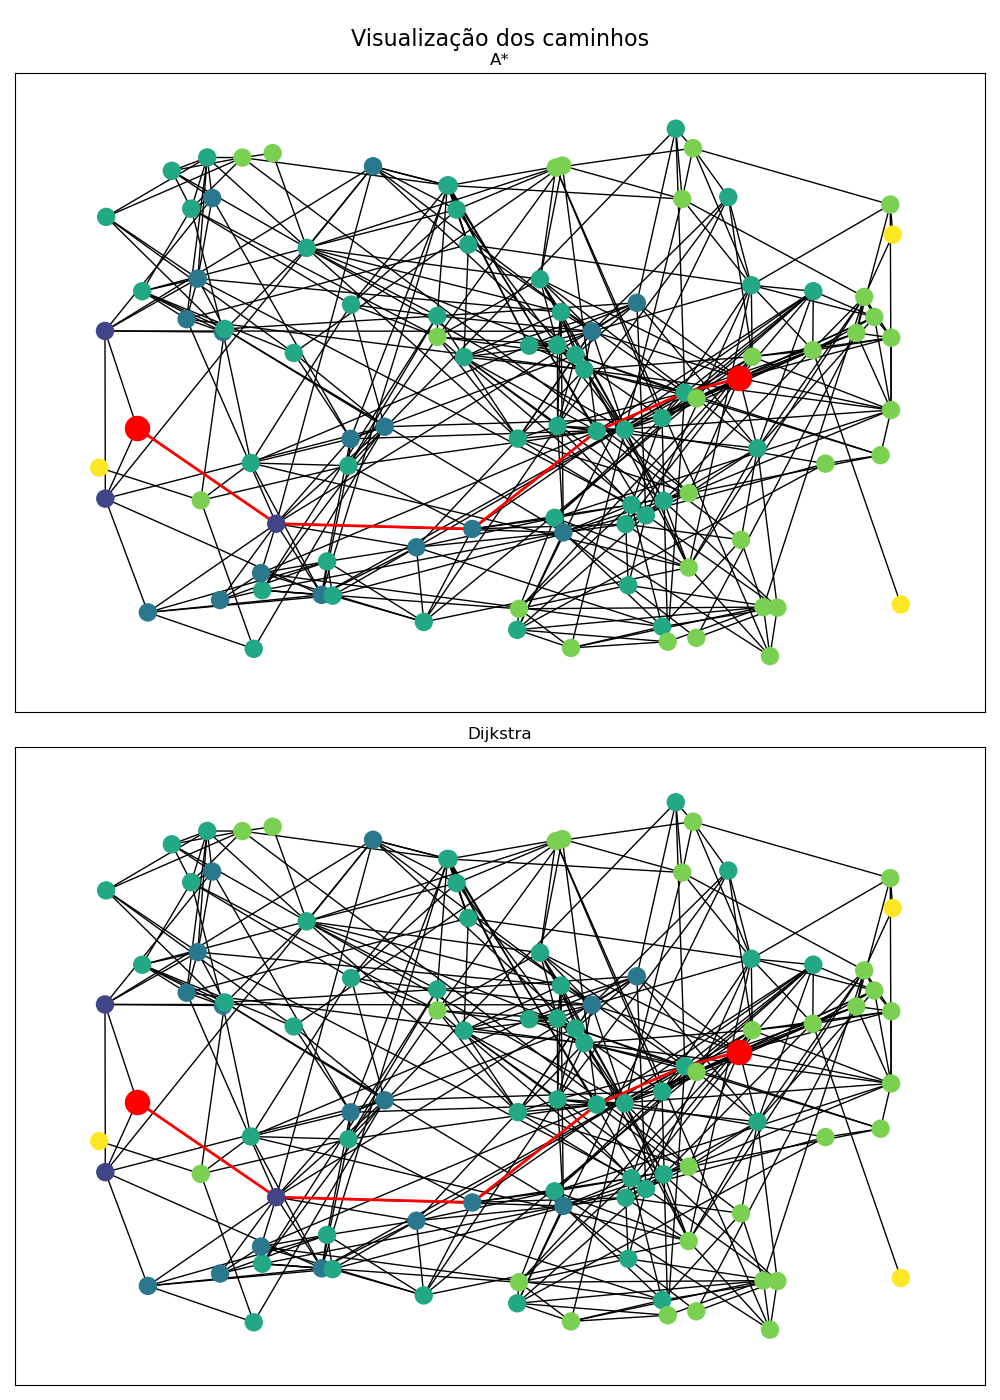
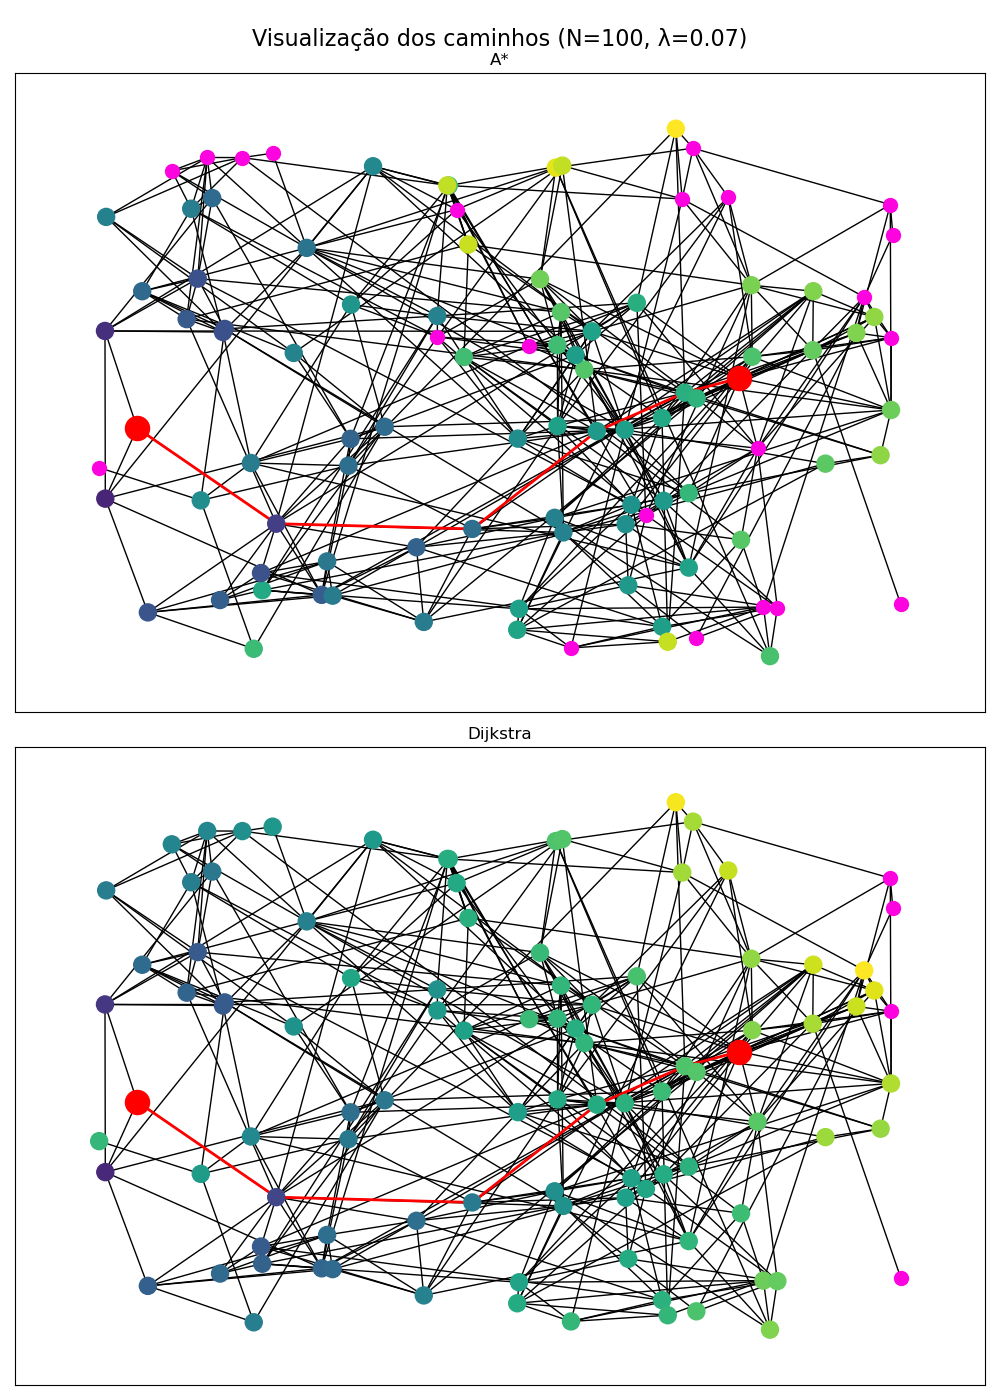
organizacao e plot melhor

diff --git a/main.py b/main.py
@@ -7,7 +7,7 @@
 import warnings
 warnings.simplefilter("ignore", category=FutureWarning) # evitar avisos dos modulos como matplotlibe e osmnx
 
-from algoritmos import a_estrela, a_estrela_countexp, best_first, hill_climbing, busca_largura, busca_profundidade
+from algoritmos import a_estrela, best_first, dijkstra, hill_climbing, busca_largura, busca_profundidade
 from geracao import geracacao_osm, geracao_custom
 from heuristicas import heuristica_osm, heuristica_custom
 
@@ -139,9 +139,10 @@ def experimento_2(grafos, pares_vertices):
     os.makedirs("./resultados/experimento_2", exist_ok=True)
     fig.savefig(fname="./resultados/experimento_2/metricas.png")
 
-
 def experimento_3(grafos, pares_vertices):
     dist_func = lambda grafo, a, b: grafo[a][b]['weight']
+
+    funcs = [a_estrela, dijkstra]
     nomes_algoritmos = ["A*", "Dijkstra"]
 
     resultados_distancia = {nome: [] for nome in nomes_algoritmos}
@@ -149,25 +150,20 @@ def experimento_3(grafos, pares_vertices):
     resultados_explorados = {nome: [] for nome in nomes_algoritmos}
 
     for grafo in grafos:
-        # Usando lambda + clojure pra transformar A* em Dijkstra (h(n) = 0, para todo n)
-        a_est = lambda orig, dest: a_estrela_countexp(grafo, orig, dest, heuristica_custom, dist_func)
-        dijkstra = lambda orig, dest : a_estrela_countexp(grafo, orig, dest, lambda x, y, z: 0, dist_func)
-
-        funcs = [a_est, dijkstra]
-
         for func, nome in zip(funcs, nomes_algoritmos):
             distancias = []
             tempos = []
             explorados = []
             for origem, destino in pares_vertices:
                 t_inicio = time.time()
-                caminho, n_explorados = func(origem, destino)
+                caminho, dists = func(grafo, origem, destino, heuristica_custom, dist_func, return_dists=True)
                 t_fim = time.time()
 
                 if caminho and caminho[-1]==destino:
                     distancia = sum(grafo[u][v]['weight'] for u, v in zip(caminho[:-1], caminho[1:]))
                     distancias.append(distancia)
                 tempos.append(t_fim - t_inicio)
+                n_explorados = sum(1 for value in dists.values() if value != np.inf)
                 explorados.append(n_explorados)
         
             # Média das distâncias e tempos
@@ -203,6 +199,7 @@ def experimento_3(grafos, pares_vertices):
 
     def path_plot(ax, grafo, arestas, title, cores):
         pos = nx.get_node_attributes(grafo, 'pos')
+        nx.draw_networkx_nodes(grafo, pos, node_color="#fc03df", node_size=100, ax=ax)
         nx.draw_networkx(grafo, pos, node_size=150, node_color=cores, cmap=cm.viridis, ax=ax, with_labels=False)
         nx.draw_networkx_nodes(grafo, pos, nodelist=[inicio, fim], node_color="red", node_size=300, ax=ax)
         nx.draw_networkx_edges(grafo, pos, edgelist=arestas, edge_color="red", width=2, ax=ax)
@@ -212,21 +209,18 @@ def experimento_3(grafos, pares_vertices):
     inicio = 99
     fim = 5
 
-    caminho_a = a_estrela(grafo_vis, inicio, fim, heuristica_custom, dist_func)
+    caminho_a, dists_a = a_estrela(grafo_vis, inicio, fim, heuristica_custom, dist_func, return_dists=True)
     arestas_a = list(zip(caminho_a[:-1], caminho_a[1:]))
+    cores_a = [dists_a[key] for key in sorted(dists_a.keys())]
 
-    # A* com heuristica h(n) = 0 é o Dijkstra
-    caminho_dij = a_estrela(grafo_vis, inicio, fim, lambda x, y, z: 0, dist_func)
+    caminho_dij, dists_dij = dijkstra(grafo_vis, inicio, fim, heuristica_custom, dist_func, return_dists=True)
     arestas_dij = list(zip(caminho_dij[:-1], caminho_dij[1:]))
+    cores_dij = [dists_dij[key] for key in sorted(dists_dij.keys())]
 
-    # Para coloração
-    dists = nx.single_source_shortest_path_length(grafo_vis, inicio)
-    cores_nos = [dists.get(node, float('inf')) for node in sorted(list(grafo_vis.nodes()))]
+    path_plot(path_axes[0], grafo_vis, arestas_a, "A*", cores_a)
+    path_plot(path_axes[1], grafo_vis, arestas_dij, "Dijkstra", cores_dij)
 
-    path_plot(path_axes[0], grafo_vis, arestas_a, "A*", cores_nos)
-    path_plot(path_axes[1], grafo_vis, arestas_dij, "Dijkstra", cores_nos)
-
-    path_fig.suptitle('Visualização dos caminhos', fontsize=16)
+    path_fig.suptitle('Visualização dos caminhos (N=100, λ=0.07)', fontsize=16)
     path_fig.tight_layout()
     path_fig.savefig(fname="./resultados/experimento_3/caminhos.png")
 

diff --git a/algoritmos/dijkstra.py b/algoritmos/dijkstra.py
@@ -1,13 +1,13 @@
 import numpy as np
 from heapq import heappop, heappush
 
-def a_estrela(grafo, inicio, fim, heuristica, dist_func, return_dists=False):
+def dijkstra(grafo, inicio, fim, heuristica, dist_func, return_dists=False):
     dists = { no:np.inf for no in grafo.nodes}
     predecessor = { no:-1 for no in grafo.nodes}
     dists[inicio] = 0
 
     fila_prioridade = []
-    heappush(fila_prioridade, (heuristica(grafo, inicio, fim), inicio))
+    heappush(fila_prioridade, (0, inicio))
 
     while fila_prioridade:
         _, atual = heappop(fila_prioridade)
@@ -21,8 +21,7 @@ def a_estrela(grafo, inicio, fim, heuristica, dist_func, return_dists=False):
             if dist_g < dists[vizinho]:
                 predecessor[vizinho] = atual
                 dists[vizinho] = dist_g
-                heuristica_f = dist_g + heuristica(grafo, vizinho, fim)
-                heappush(fila_prioridade, (heuristica_f, vizinho))
+                heappush(fila_prioridade, (dist_g, vizinho))
 
     if(predecessor[fim] == -1):
         if return_dists:

diff --git a/algoritmos/__init__.py b/algoritmos/__init__.py
@@ -1,7 +1,8 @@
 # Configuração do package algoritmos
 
-from .a_estrela import a_estrela, a_estrela_countexp
+from .a_estrela import a_estrela
 from .best_first import best_first
+from .dijkstra import dijkstra
 from .hill_climbing import hill_climbing
 from .largura import busca_largura
 from .profundidade import busca_profundidade
